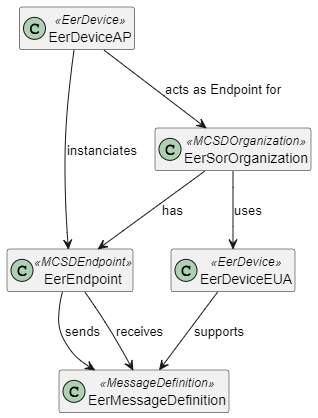
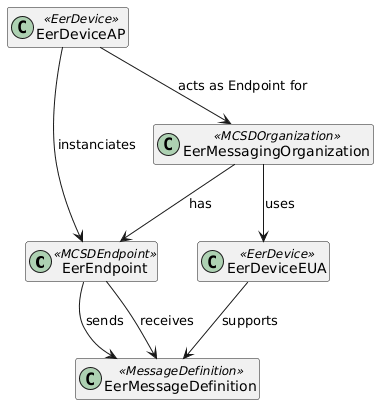
Simplifiy EerEndpoint Proof of Concept (#10)
* Only EerEndpointMessaging ProofOfConcept

* Fix TODO's and notes

Changed region(s): [[0.0, 0.0, 0.9906, 1.0], [0.3679, 0.5347, 0.4245, 0.5644]]

diff --git a/input/pagecontent/SOR-EER-mapping.md b/input/pagecontent/SOR-EER-mapping.md
@@ -23,13 +23,13 @@ The following table gives and overview of how these messaging metadata are mappe
   <tr style="border: 1px solid black; border-collapse: collapse;">
     <td>SOR-EDI</td>
     <td>EER-Endpoint with MedCom MessageDefinitions as payloadType</td>
-    <td><a href="./StructureDefinition-eer.dk.endpoint.html">EER-Endpoint</a></td>
+    <td><a href="./StructureDefinition-eer.dk.endpoint.messaging.html">EER-Endpoint</a></td>
     <td>EER-Endpoint represents or hold relationsships to all metadata regarding an endpoint in EHMI. EER-Endpoint holds relationsships to all MedCom Messages through the references of payloadTypes (MedCom MessageDefinitions). A MedCom MessageDefinition is defined together with the FHIR Message Profile and is included in an IG</td>
   </tr>
   <tr style="border: 1px solid black; border-collapse: collapse;">
     <td>SOR-GLN (attribute)</td>
     <td>EER-Endpoint</td>
-    <td><a href="./StructureDefinition-eer.dk.endpoint.html">EER-Endpoint</a></td>
+    <td><a href="./StructureDefinition-eer.dk.endpoint.messaging.html">EER-Endpoint</a></td>
     <td>In EHMI messaging it will hold  SOR-GLN is now the primary identifier of an EER-Endpoint ressource</td>
   </tr>
   <tr style="border: 1px solid black; border-collapse: collapse;">

diff --git a/input/pagecontent/index.md b/input/pagecontent/index.md
@@ -1,4 +1,3 @@
-<!-- TODO: Update the documentation and diagrams (if needed), only after review however -->
 # EER Endpoint Register (EER)
 
 The EER Endpoint Register (EER) Profile supports RESTful queries across related care services resources and discovery of Endpoint addresses related to a SOR Organizational Unit in Danish Healthcare using a RESTful interface.
@@ -91,11 +90,8 @@ Message Service Handlers (eerDeviceMSH) are software solutions standing alone or
   <img src="eerDiagramWithoutMSH.png" alt="EER Diagram without MSH" style="vertical-align:middle;margin:50px 10px;width:40%">
   <figcaption><b>EER Diagram without MSH</b></figcaption>
 </figure>
-<!--br clear="all"-->
 
-<!--img src="hr.png" alt="HR">
 <br clear="all"-->
-<!--div include eerDiagramWithMSH.svg %} </div-->
 
 <figure>
   <img src="eerDiagramWithMSH.png" alt="EER Diagram including MSH" style="vertical-align:middle;margin:50px 10px;width:50%">  
